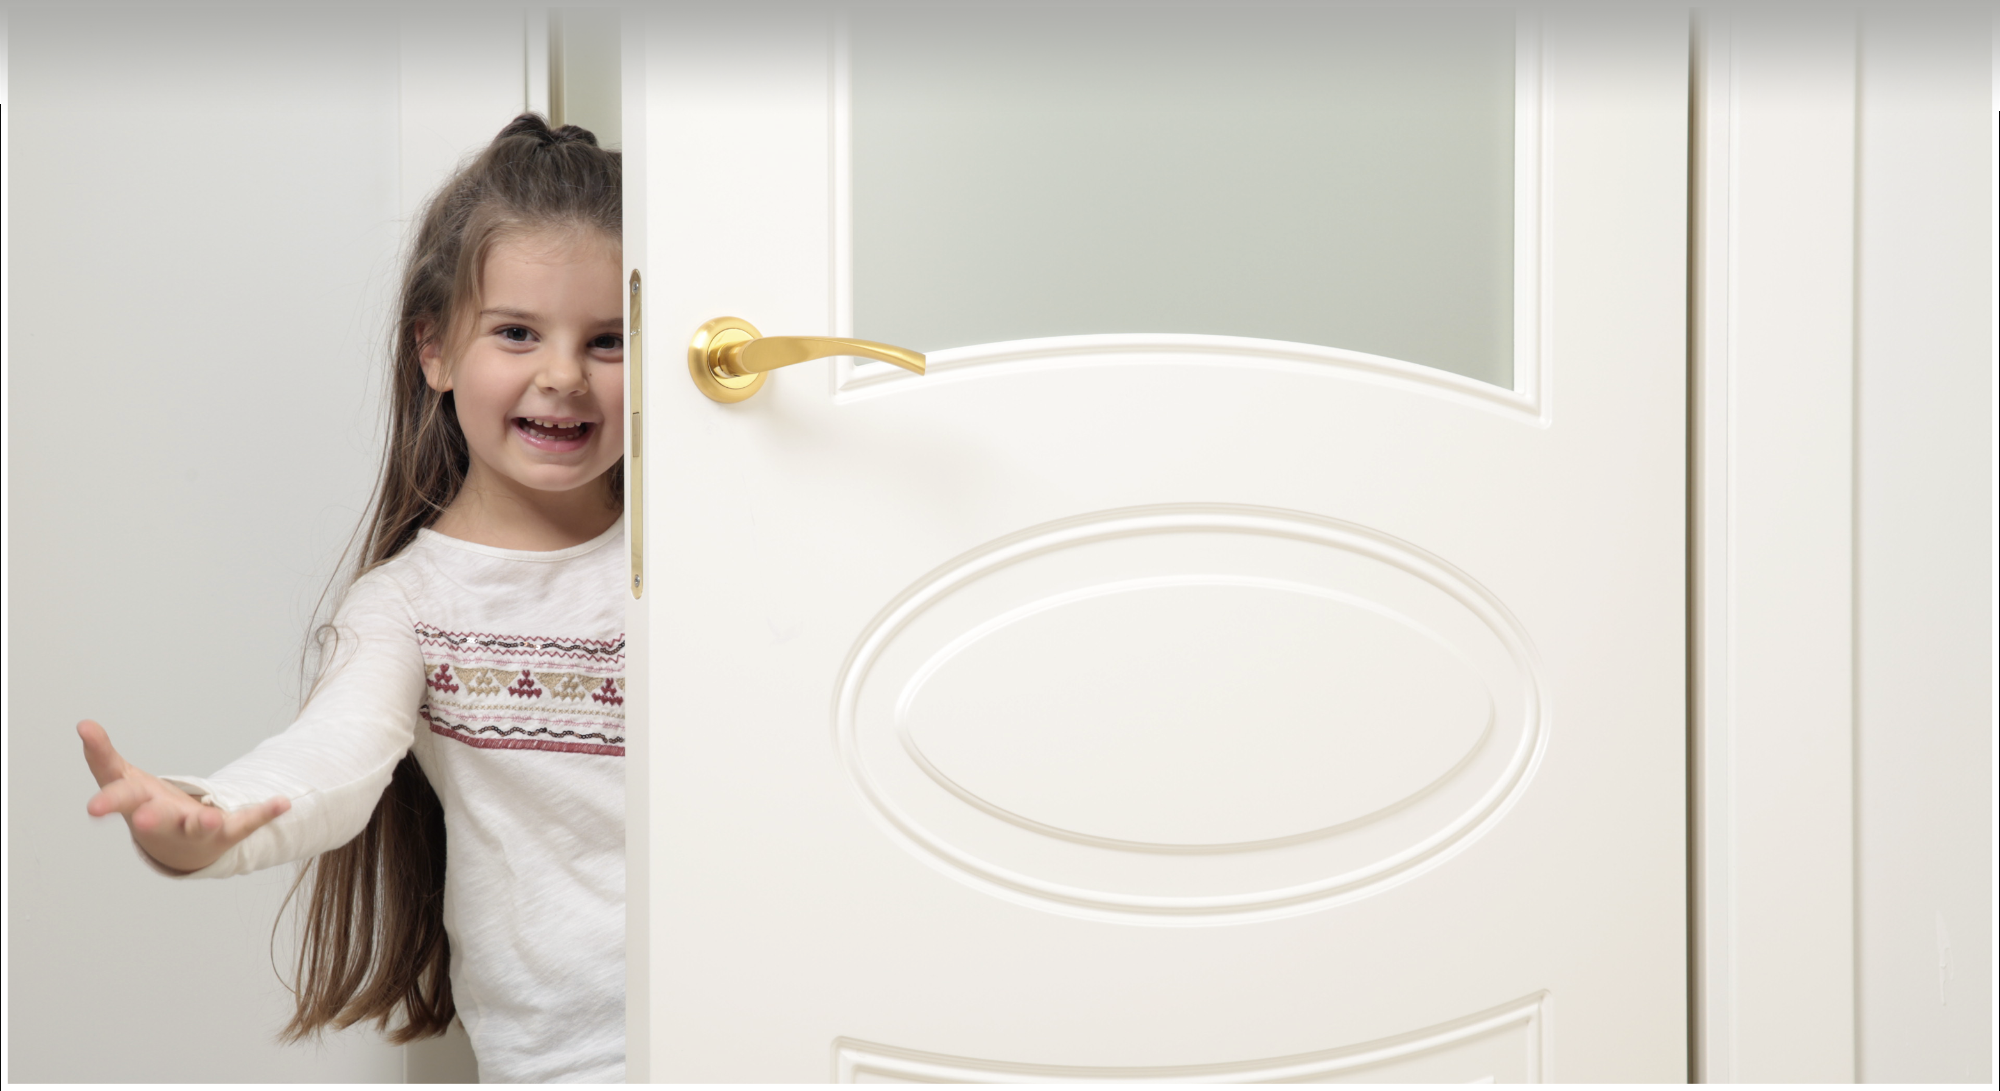
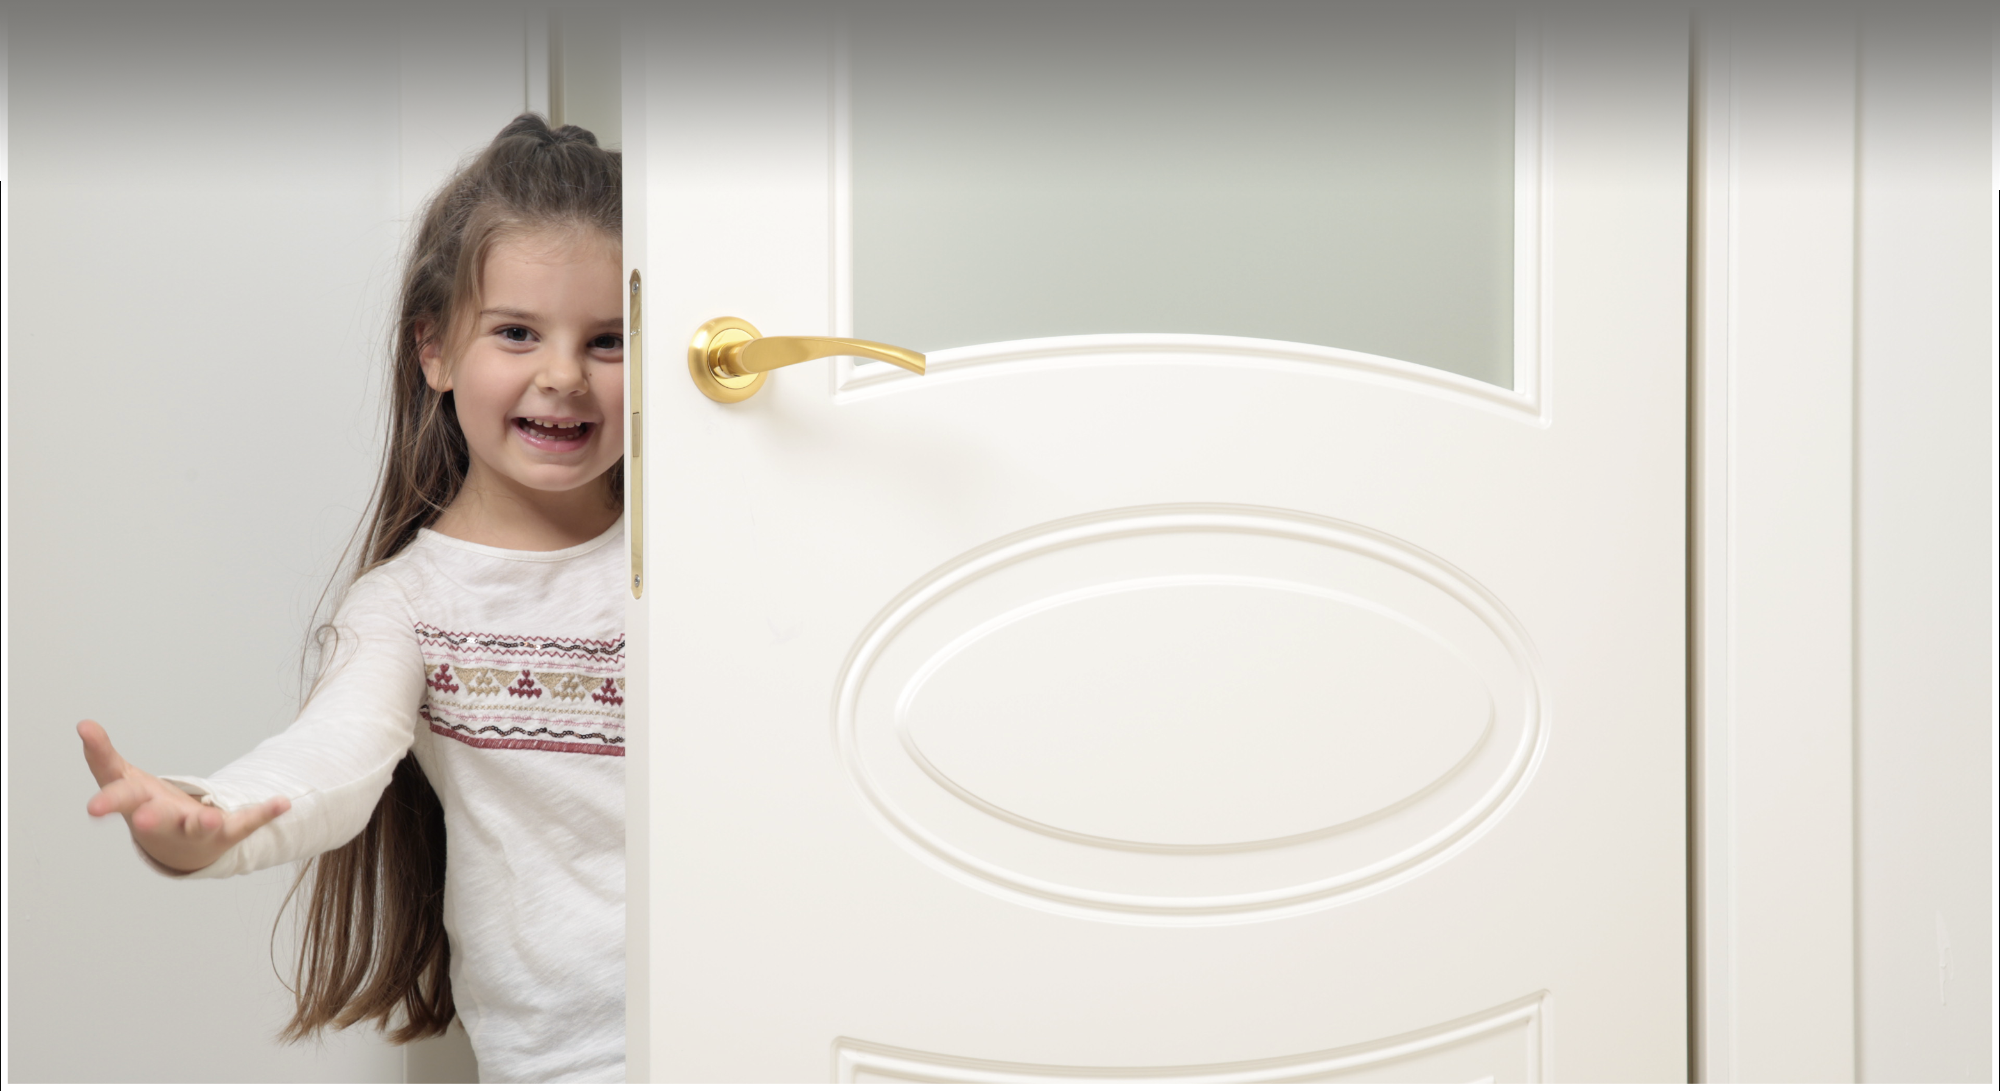
create github pages

Changed region(s): [[0.0, 0.0, 1.0, 0.1558]]

diff --git a/index.html b/index.html
@@ -26,7 +26,7 @@
   
 </head>
 <body>
-<section class="menu cid-qthnZOeO9y" once="menu" id="menu1-g" data-rv-view="6700">
+<section class="menu cid-qthnZOeO9y" once="menu" id="menu1-g" data-rv-view="11410">
 
     
 
@@ -53,17 +53,17 @@
             <ul class="navbar-nav nav-dropdown nav-right" data-app-modern-menu="true"><li class="nav-item">
                     <a class="nav-link link text-white display-4" href="index.html#content5-u">
                         Interior Doors</a>
-                </li><li class="nav-item"><a class="nav-link link text-white display-4" href="index.html#content5-v">Hardware</a></li><li class="nav-item"><a class="nav-link link text-white display-4" href="index.html#content5-z">Tech</a></li><li class="nav-item"><a class="nav-link link text-white display-4" href="index.html#content5-x">Info &nbsp; &nbsp; &nbsp; &nbsp; &nbsp; &nbsp; &nbsp; &nbsp; &nbsp; &nbsp;</a></li></ul>
+                </li><li class="nav-item"><a class="nav-link link text-white display-4" href="index.html#content5-v">Hardware</a></li><li class="nav-item"><a class="nav-link link text-white display-4" href="index.html#content5-z">Tech</a></li><li class="nav-item"><a class="nav-link link text-white display-4" href="index.html#content5-x">Info</a></li><li class="nav-item"><a class="nav-link link text-white display-4" href="index.html#content5-x"><span class="mbri-bookmark mbr-iconfont mbr-iconfont-btn"></span></a></li></ul>
             
         </div>
     </nav>
 </section>
 
-<section class="engine"><a href="https://mobirise.co/b">free web site creator</a></section><section class="cid-qthvUHXAuN mbr-fullscreen mbr-parallax-background" id="header2-l" data-rv-view="6694">
+<section class="engine"><a href="https://mobirise.co/c">website maker</a></section><section class="cid-qthvUHXAuN mbr-fullscreen mbr-parallax-background" id="header2-l" data-rv-view="11404">
 
     
 
-    <div class="mbr-overlay" style="opacity: 0.1; background-color: rgb(118, 118, 118);"></div>
+    <div class="mbr-overlay" style="opacity: 0; background-color: rgb(118, 118, 118);"></div>
 
     <div class="container align-center">
         <div class="row justify-content-md-center">
@@ -82,7 +82,7 @@
     </div>
 </section>
 
-<section class="mbr-section content5 cid-qtlBtGVQ6E mbr-parallax-background" id="content5-u" data-rv-view="6697">
+<section class="mbr-section content5 cid-qtlBtGVQ6E mbr-parallax-background" id="content5-u" data-rv-view="11407">
 
     
 
@@ -101,17 +101,17 @@
     </div>
 </section>
 
-<section class="mbr-gallery mbr-slider-carousel cid-qthvyZ0HPn" id="gallery3-k" data-rv-view="6702">
+<section class="mbr-gallery mbr-slider-carousel cid-qthvyZ0HPn" id="gallery3-k" data-rv-view="11412">
 
     
 
     <div>
-        <div><!-- Filter --><div class="mbr-gallery-filter container gallery-filter-active"><ul><li class="mbr-gallery-filter-all active"><a class="btn btn-md btn-primary-outline" href="">All</a></li></ul></div><!-- Gallery --><div class="mbr-gallery-row"><div class="mbr-gallery-layout-default"><div><div><div class="mbr-gallery-item mbr-gallery-item--p0" data-video-url="false" data-tags="Awesome"><div href="#lb-gallery3-k" data-slide-to="0" data-toggle="modal"><img src="assets/images/512a0252-875x2000-800x1828.jpg" alt=""><span class="icon-focus"></span><span class="mbr-gallery-title mbr-fonts-style display-7">"Invisible" door that blends into wall</span></div></div><div class="mbr-gallery-item mbr-gallery-item--p0" data-video-url="false" data-tags="Features"><div href="#lb-gallery3-k" data-slide-to="1" data-toggle="modal"><img src="assets/images/512a0116-875x2000-800x1828.jpg" alt=""><span class="icon-focus"></span><span class="mbr-gallery-title mbr-fonts-style display-7">COLORE</span></div></div><div class="mbr-gallery-item mbr-gallery-item--p0" data-video-url="false" data-tags="Classic Collections"><div href="#lb-gallery3-k" data-slide-to="2" data-toggle="modal"><img src="assets/images/512a0326-875x2000-800x1828.jpg" alt=""><span class="icon-focus"></span><span class="mbr-gallery-title mbr-fonts-style display-7">Folding door for tight spaces</span></div></div><div class="mbr-gallery-item mbr-gallery-item--p0" data-video-url="false" data-tags="Features"><div href="#lb-gallery3-k" data-slide-to="3" data-toggle="modal"><img src="assets/images/512a0091-875x2000-800x1828.jpg" alt=""><span class="icon-focus"></span><span class="mbr-gallery-title mbr-fonts-style display-7">OPERA</span></div></div><div class="mbr-gallery-item mbr-gallery-item--p0" data-video-url="false" data-tags="Classic Collections"><div href="#lb-gallery3-k" data-slide-to="4" data-toggle="modal"><img src="assets/images/512a0532-edit-875x2000-800x1828.jpg" alt=""><span class="icon-focus"></span><span class="mbr-gallery-title mbr-fonts-style display-7">AVENUE</span></div></div><div class="mbr-gallery-item mbr-gallery-item--p0" data-video-url="false" data-tags="Classic Collections"><div href="#lb-gallery3-k" data-slide-to="5" data-toggle="modal"><img src="assets/images/512a0049-875x2000-800x1828.jpg" alt=""><span class="icon-focus"></span><span class="mbr-gallery-title mbr-fonts-style display-7">MEDICI</span></div></div><div class="mbr-gallery-item mbr-gallery-item--p0" data-video-url="false" data-tags="Classic Collections"><div href="#lb-gallery3-k" data-slide-to="6" data-toggle="modal"><img src="assets/images/512a0192-edit-896x2048-800x1828.jpg" alt=""><span class="icon-focus"></span><span class="mbr-gallery-title mbr-fonts-style display-7">FORMA</span></div></div><div class="mbr-gallery-item mbr-gallery-item--p0" data-video-url="false" data-tags="Modern Collections"><div href="#lb-gallery3-k" data-slide-to="7" data-toggle="modal"><img src="assets/images/512a0194-edit-875x2000-800x1828.jpg" alt=""><span class="icon-focus"></span><span class="mbr-gallery-title mbr-fonts-style display-7">ALBERO</span></div></div></div></div><div class="clearfix"></div></div></div><!-- Lightbox --><div data-app-prevent-settings="" class="mbr-slider modal fade carousel slide" tabindex="-1" data-keyboard="true" data-interval="false" id="lb-gallery3-k"><div class="modal-dialog"><div class="modal-content"><div class="modal-body"><div class="carousel-inner"><div class="carousel-item"><img src="assets/images/512a0252-875x2000.jpg" alt=""></div><div class="carousel-item"><img src="assets/images/512a0116-875x2000.jpg" alt=""></div><div class="carousel-item"><img src="assets/images/512a0326-875x2000.jpg" alt=""></div><div class="carousel-item"><img src="assets/images/512a0091-875x2000.jpg" alt=""></div><div class="carousel-item"><img src="assets/images/512a0532-edit-875x2000.jpg" alt=""></div><div class="carousel-item"><img src="assets/images/512a0049-875x2000.jpg" alt=""></div><div class="carousel-item"><img src="assets/images/512a0192-edit-896x2048.jpg" alt=""></div><div class="carousel-item active"><img src="assets/images/512a0194-edit-875x2000.jpg" alt=""></div></div><a class="carousel-control carousel-control-prev" role="button" data-slide="prev" href="#lb-gallery3-k"><span class="mbri-left mbr-iconfont" aria-hidden="true"></span><span class="sr-only">Previous</span></a><a class="carousel-control carousel-control-next" role="button" data-slide="next" href="#lb-gallery3-k"><span class="mbri-right mbr-iconfont" aria-hidden="true"></span><span class="sr-only">Next</span></a><a class="close" href="#" role="button" data-dismiss="modal"><span class="sr-only">Close</span></a></div></div></div></div></div>
+        <div><!-- Filter --><div class="mbr-gallery-filter container gallery-filter-active"><ul><li class="mbr-gallery-filter-all active"><a class="btn btn-md btn-primary-outline" href="">All</a></li></ul></div><!-- Gallery --><div class="mbr-gallery-row"><div class="mbr-gallery-layout-default"><div><div><div class="mbr-gallery-item mbr-gallery-item--p0" data-video-url="false" data-tags="Features"><div href="#lb-gallery3-k" data-slide-to="0" data-toggle="modal"><img src="assets/images/512a0252-875x2000-800x1828.jpg" alt=""><span class="icon-focus"></span><span class="mbr-gallery-title mbr-fonts-style display-7">"Invisible" door that blends into wall</span></div></div><div class="mbr-gallery-item mbr-gallery-item--p0" data-video-url="false" data-tags="Classic Collections"><div href="#lb-gallery3-k" data-slide-to="1" data-toggle="modal"><img src="assets/images/512a0116-875x2000-800x1828.jpg" alt=""><span class="icon-focus"></span><span class="mbr-gallery-title mbr-fonts-style display-7">COLORE</span></div></div><div class="mbr-gallery-item mbr-gallery-item--p0" data-video-url="false" data-tags="Features"><div href="#lb-gallery3-k" data-slide-to="2" data-toggle="modal"><img src="assets/images/512a0326-875x2000-800x1828.jpg" alt=""><span class="icon-focus"></span><span class="mbr-gallery-title mbr-fonts-style display-7">Folding door for tight spaces</span></div></div><div class="mbr-gallery-item mbr-gallery-item--p0" data-video-url="false" data-tags="Classic Collections"><div href="#lb-gallery3-k" data-slide-to="3" data-toggle="modal"><img src="assets/images/512a0091-875x2000-800x1828.jpg" alt=""><span class="icon-focus"></span><span class="mbr-gallery-title mbr-fonts-style display-7">OPERA</span></div></div><div class="mbr-gallery-item mbr-gallery-item--p0" data-video-url="false" data-tags="Classic Collections"><div href="#lb-gallery3-k" data-slide-to="4" data-toggle="modal"><img src="assets/images/512a0532-edit-875x2000-800x1828.jpg" alt=""><span class="icon-focus"></span><span class="mbr-gallery-title mbr-fonts-style display-7">AVENUE</span></div></div><div class="mbr-gallery-item mbr-gallery-item--p0" data-video-url="false" data-tags="Classic Collections"><div href="#lb-gallery3-k" data-slide-to="5" data-toggle="modal"><img src="assets/images/512a0049-875x2000-800x1828.jpg" alt=""><span class="icon-focus"></span><span class="mbr-gallery-title mbr-fonts-style display-7">MEDICI</span></div></div><div class="mbr-gallery-item mbr-gallery-item--p0" data-video-url="false" data-tags="Modern Collections"><div href="#lb-gallery3-k" data-slide-to="6" data-toggle="modal"><img src="assets/images/512a0192-edit-896x2048-800x1828.jpg" alt=""><span class="icon-focus"></span><span class="mbr-gallery-title mbr-fonts-style display-7">FORMA</span></div></div><div class="mbr-gallery-item mbr-gallery-item--p0" data-video-url="false" data-tags="Modern Collections"><div href="#lb-gallery3-k" data-slide-to="7" data-toggle="modal"><img src="assets/images/512a0194-edit-875x2000-800x1828.jpg" alt=""><span class="icon-focus"></span><span class="mbr-gallery-title mbr-fonts-style display-7">FORMA</span></div></div></div></div><div class="clearfix"></div></div></div><!-- Lightbox --><div data-app-prevent-settings="" class="mbr-slider modal fade carousel slide" tabindex="-1" data-keyboard="true" data-interval="false" id="lb-gallery3-k"><div class="modal-dialog"><div class="modal-content"><div class="modal-body"><div class="carousel-inner"><div class="carousel-item"><img src="assets/images/512a0252-875x2000.jpg" alt=""></div><div class="carousel-item"><img src="assets/images/512a0116-875x2000.jpg" alt=""></div><div class="carousel-item active"><img src="assets/images/512a0326-875x2000.jpg" alt=""></div><div class="carousel-item"><img src="assets/images/512a0091-875x2000.jpg" alt=""></div><div class="carousel-item"><img src="assets/images/512a0532-edit-875x2000.jpg" alt=""></div><div class="carousel-item"><img src="assets/images/512a0049-875x2000.jpg" alt=""></div><div class="carousel-item"><img src="assets/images/512a0192-edit-896x2048.jpg" alt=""></div><div class="carousel-item"><img src="assets/images/512a0194-edit-875x2000.jpg" alt=""></div></div><a class="carousel-control carousel-control-prev" role="button" data-slide="prev" href="#lb-gallery3-k"><span class="mbri-left mbr-iconfont" aria-hidden="true"></span><span class="sr-only">Previous</span></a><a class="carousel-control carousel-control-next" role="button" data-slide="next" href="#lb-gallery3-k"><span class="mbri-right mbr-iconfont" aria-hidden="true"></span><span class="sr-only">Next</span></a><a class="close" href="#" role="button" data-dismiss="modal"><span class="sr-only">Close</span></a></div></div></div></div></div>
     </div>
 
 </section>
 
-<section class="mbr-section content5 cid-qtlCAYe06c mbr-parallax-background" id="content5-v" data-rv-view="6737">
+<section class="mbr-section content5 cid-qtlCAYe06c mbr-parallax-background" id="content5-v" data-rv-view="11447">
 
     
 
@@ -130,7 +130,7 @@
     </div>
 </section>
 
-<section class="mbr-gallery mbr-slider-carousel cid-qtiZYfXwR7" id="gallery1-s" data-rv-view="6740">
+<section class="mbr-gallery mbr-slider-carousel cid-qtiZYfXwR7" id="gallery1-s" data-rv-view="11450">
 
     
 
@@ -140,7 +140,7 @@
 
 </section>
 
-<section class="mbr-section content5 cid-qtxxarTaLy mbr-parallax-background" id="content5-z" data-rv-view="6791">
+<section class="mbr-section content5 cid-qtxxarTaLy mbr-parallax-background" id="content5-z" data-rv-view="11501">
 
     
 
@@ -159,7 +159,7 @@
     </div>
 </section>
 
-<section class="mbr-gallery mbr-slider-carousel cid-qtxBdIcTuc" id="gallery3-10" data-rv-view="6794">
+<section class="mbr-gallery mbr-slider-carousel cid-qtxBdIcTuc" id="gallery3-10" data-rv-view="11504">
 
     
 
@@ -169,7 +169,7 @@
 
 </section>
 
-<section class="mbr-section content5 cid-qtlFXje946 mbr-parallax-background" id="content5-x" data-rv-view="6845">
+<section class="mbr-section content5 cid-qtlFXje946 mbr-parallax-background" id="content5-x" data-rv-view="11555">
 
     
 
@@ -188,7 +188,7 @@
     </div>
 </section>
 
-<section class="cid-qtlDqz3ekz mbr-reveal" id="footer2-w" data-rv-view="6848">
+<section class="cid-qtlDqz3ekz mbr-reveal" id="footer2-w" data-rv-view="11558">
 
     
 

diff --git a/assets/mobirise/css/mbr-additional.css b/assets/mobirise/css/mbr-additional.css
@@ -1341,18 +1341,18 @@ body {
   background-image: url("../../../assets/images/notadoor-polina-bk-2000x1091.png");
 }
 .cid-qtlBtGVQ6E {
-  padding-top: 60px;
+  padding-top: 75px;
   padding-bottom: 0px;
   background-image: url("../../../assets/images/notadoor-background-2000x1350.png");
 }
 .cid-qthnZOeO9y .navbar {
   padding: .5rem 0;
-  background: #767676;
+  background: #2e2e2e;
   transition: none;
   min-height: 77px;
 }
 .cid-qthnZOeO9y .navbar-dropdown.bg-color.transparent.opened {
-  background: #767676;
+  background: #2e2e2e;
 }
 .cid-qthnZOeO9y a {
   font-style: normal;
@@ -1430,7 +1430,7 @@ body {
   padding-bottom: 0;
 }
 .cid-qthnZOeO9y .dropdown .dropdown-menu {
-  background: #767676;
+  background: #2e2e2e;
   display: none;
   position: absolute;
   min-width: 5rem;
@@ -1719,7 +1719,7 @@ body {
 .cid-qthvyZ0HPn {
   padding-top: 0px;
   padding-bottom: 15px;
-  background-color: #767676;
+  background-color: #cebfaf;
 }
 .cid-qthvyZ0HPn .mbr-slider .carousel-control {
   background: #1b1b1b;
@@ -1763,14 +1763,14 @@ body {
   text-align: center;
 }
 .cid-qtlCAYe06c {
-  padding-top: 60px;
+  padding-top: 75px;
   padding-bottom: 0px;
   background-image: url("../../../assets/images/notadoor-background-2000x1350.png");
 }
 .cid-qtiZYfXwR7 {
   padding-top: 0px;
   padding-bottom: 15px;
-  background-color: #efefef;
+  background-color: #cebfaf;
 }
 .cid-qtiZYfXwR7 .mbr-slider .carousel-control {
   background: #1b1b1b;
@@ -1811,7 +1811,7 @@ body {
   transition: 0.2s background ease-in-out;
 }
 .cid-qtxxarTaLy {
-  padding-top: 60px;
+  padding-top: 75px;
   padding-bottom: 0px;
   background-image: url("../../../assets/images/notadoor-background-2000x1350.png");
 }
@@ -1859,7 +1859,7 @@ body {
   transition: 0.2s background ease-in-out;
 }
 .cid-qtlFXje946 {
-  padding-top: 60px;
+  padding-top: 75px;
   padding-bottom: 0px;
   background-image: url("../../../assets/images/notadoor-background-2000x1350.png");
 }
